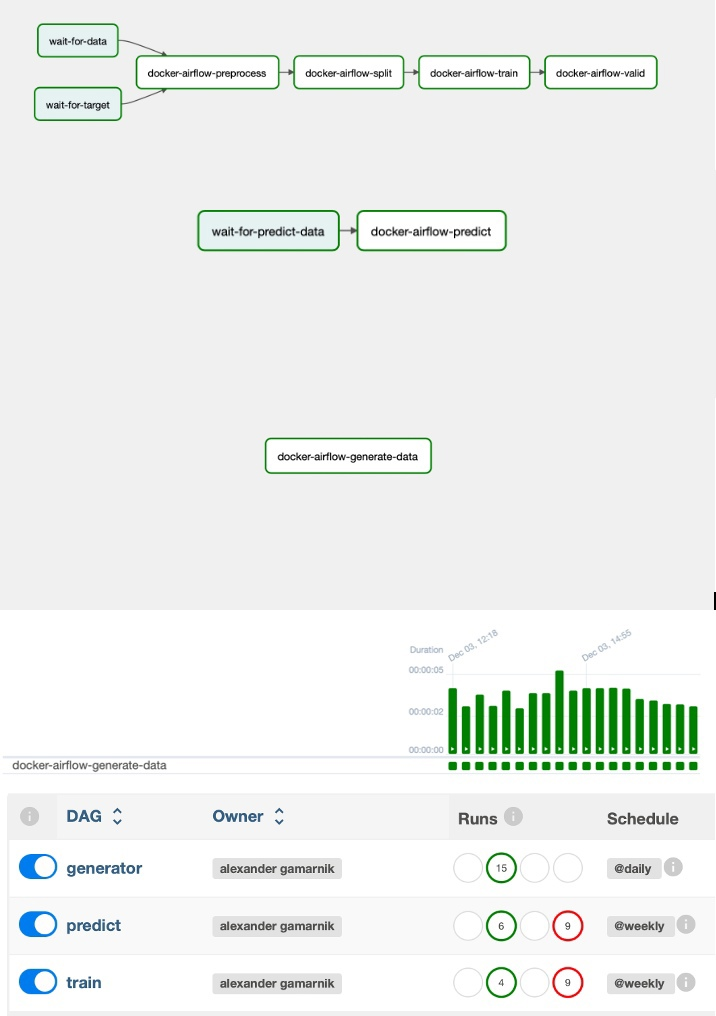
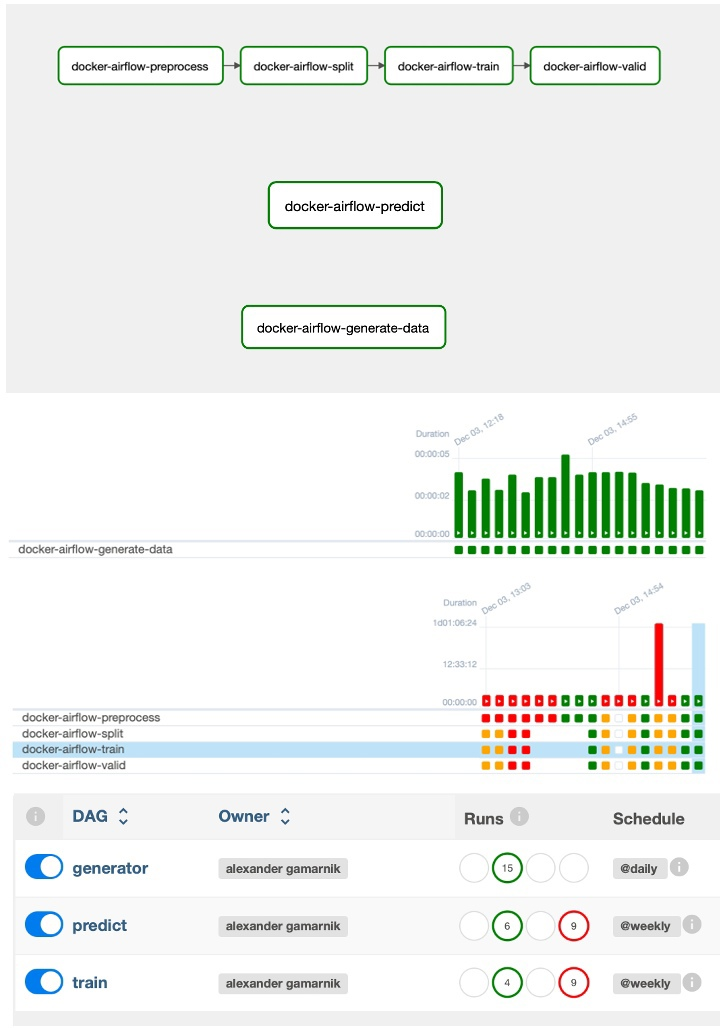
HW03 done

diff --git a/airflow_ml_dags/dags/train.py b/airflow_ml_dags/dags/train.py
@@ -55,24 +55,4 @@ with DAG(
         mounts=MOUNT_OBJ
     )
 
-    wait_data = PythonSensor(
-        task_id="wait-for-data",
-        python_callable=wait_file,
-        op_args=["/opt/airflow/data/raw/{{ ds }}/data.csv"],
-        timeout=6000,
-        poke_interval=10,
-        retries=100,
-        mode="poke",
-    )
-
-    wait_target = PythonSensor(
-        task_id="wait-for-target",
-        python_callable=wait_file,
-        op_args=["/opt/airflow/data/raw/{{ ds }}/target.csv"],
-        timeout=6000,
-        poke_interval=10,
-        retries=100,
-        mode="poke",
-    )
-
-    [wait_data, wait_target] >> preprocess_data >> split_data >> train_model >> val_model
+    preprocess_data >> split_data >> train_model >> val_model

diff --git a/airflow_ml_dags/dags/predict.py b/airflow_ml_dags/dags/predict.py
@@ -28,14 +28,4 @@ with DAG(
         mounts=MOUNT_OBJ
     )
 
-    wait_data = PythonSensor(
-        task_id='wait-for-predict-data',
-        python_callable=wait_file,
-        op_args=['/opt/airflow/data/raw/{{ ds }}/data.csv'],
-        timeout=6000,
-        poke_interval=10,
-        retries=100,
-        mode="poke"
-    )
-
-    wait_data >> predict
+    predict
